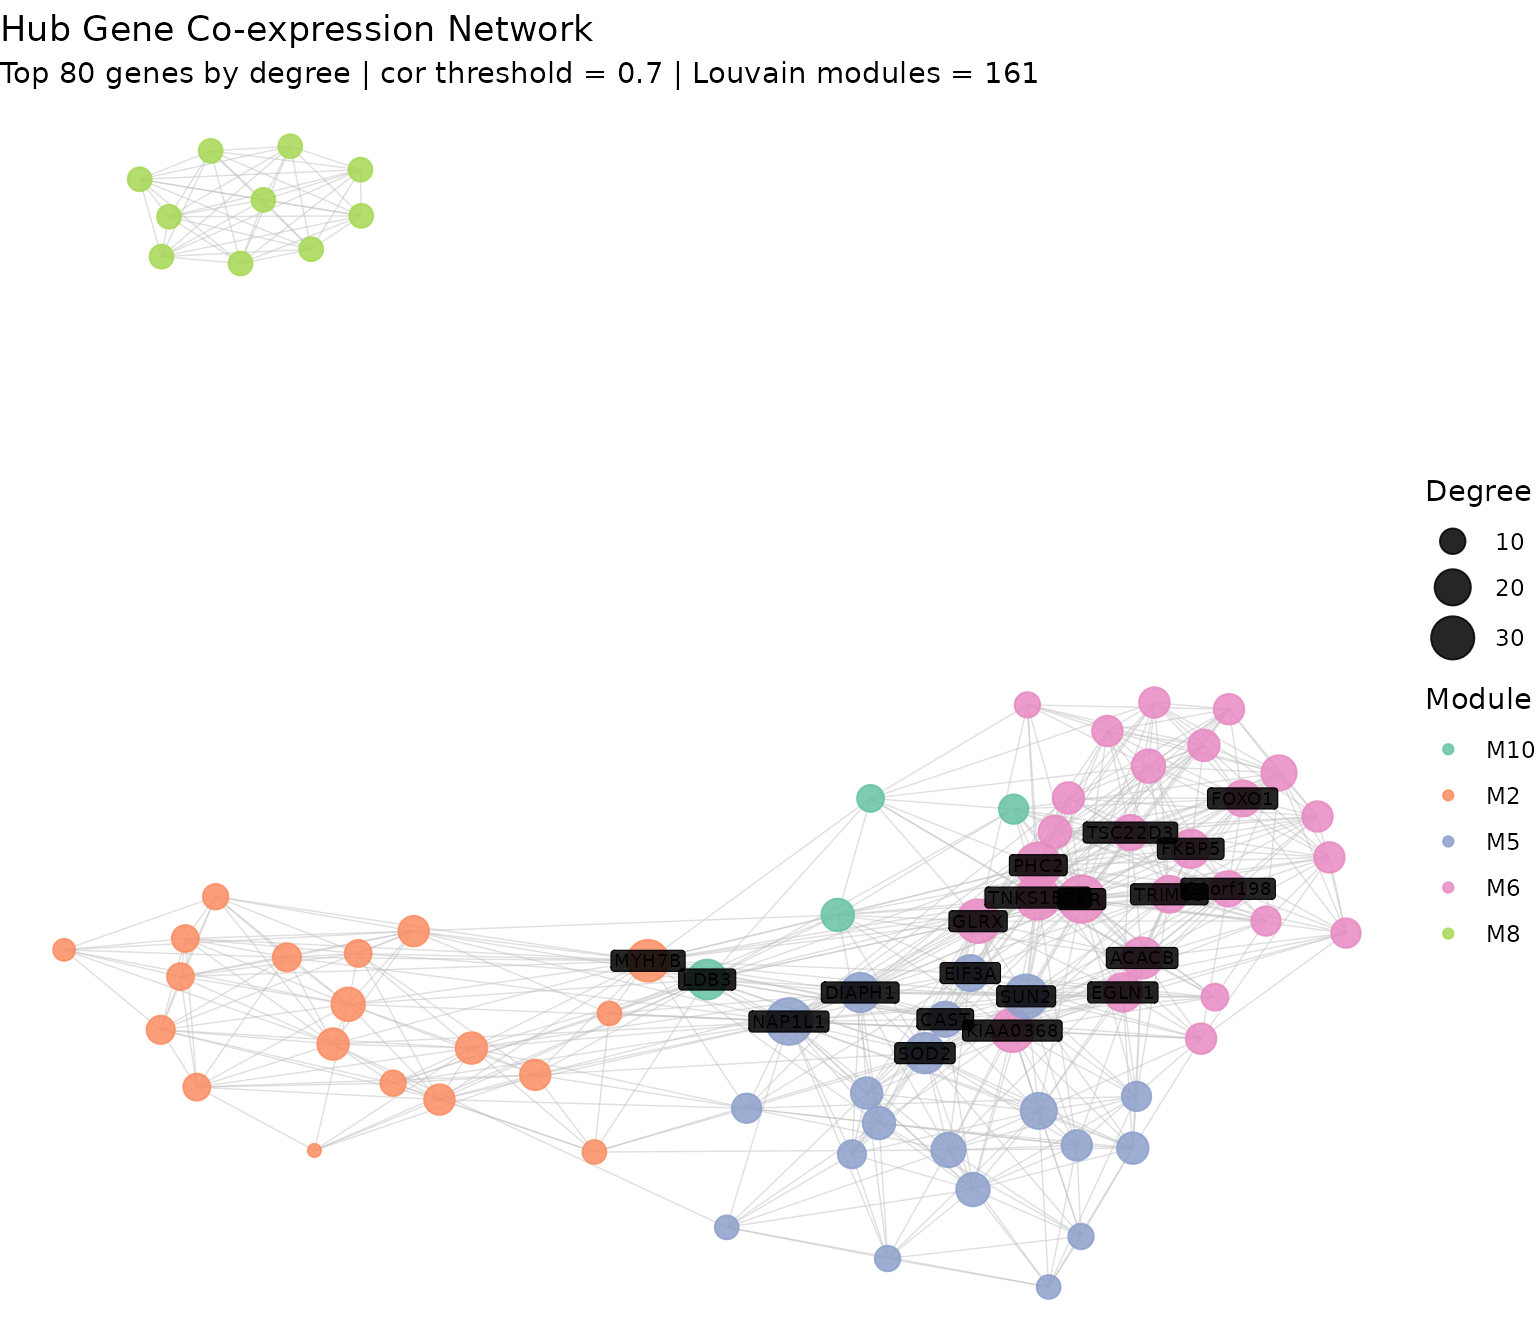
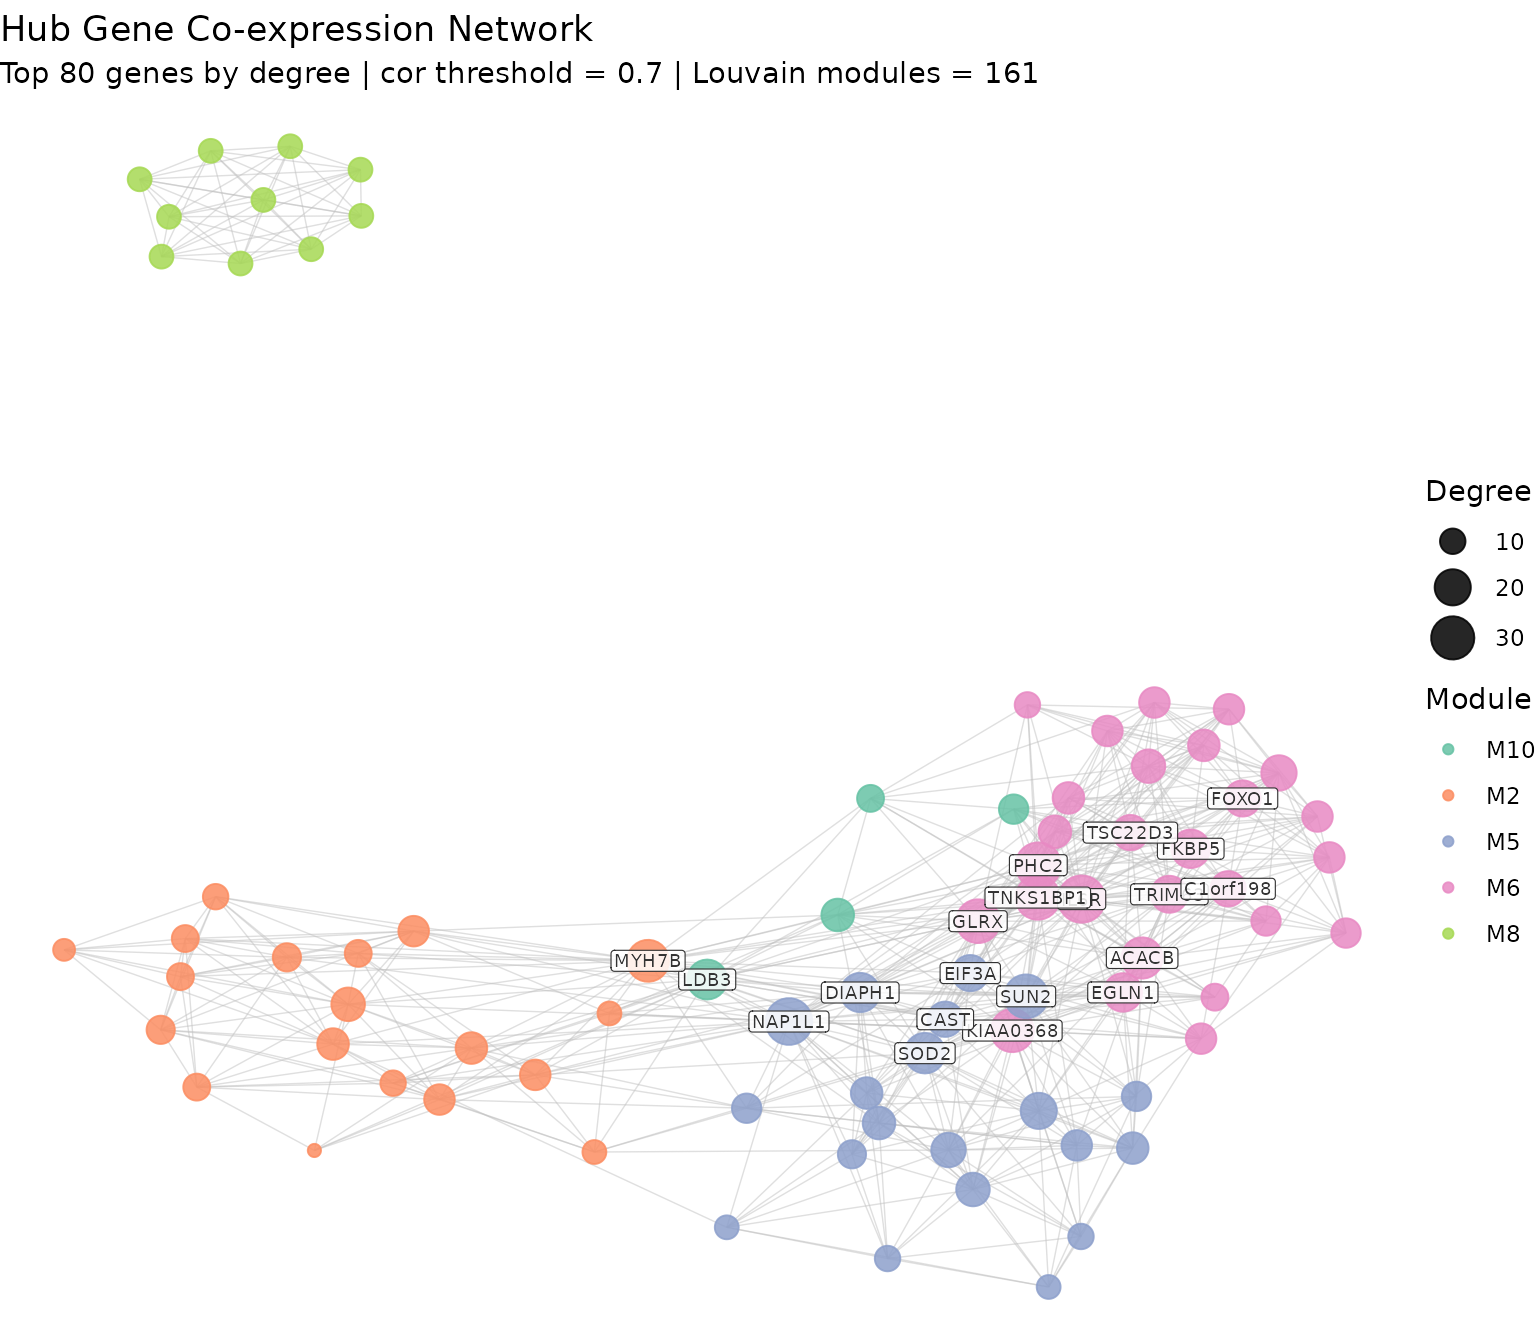
Deploying to gh-pages from @ lmuir16/ADS8192@c28b5de72da7c323fce647469440a7c2709f302e 🚀

Changed region(s): [[0.375, 0.5625, 0.8438, 0.8125]]

diff --git a/articles/getting-started.html b/articles/getting-started.html
@@ -287,6 +287,16 @@ colored by module, with the top 20 hub genes labeled by gene symbol.</p>
 <span>             cor_threshold  <span class="op">=</span> <span class="fl">0.7</span>,</span>
 <span>             community_method <span class="op">=</span> <span class="st">"louvain"</span><span class="op">)</span></span></code></pre></div>
 <p><img src="getting-started_files/figure-html/network-plot-1.png" class="r-plt" alt="" width="768"></p>
+<p>Note that the number of labeled hub genes can be controlled with
+<code>n_label</code> to reduce overlap in dense networks:</p>
+<div class="sourceCode" id="cb12"><pre class="downlit sourceCode r">
+<code class="sourceCode R"><span><span class="co"># Reduce label density for cleaner visualization</span></span>
+<span><span class="fu"><a href="../reference/plot_network.html">plot_network</a></span><span class="op">(</span><span class="va">net</span>,</span>
+<span>             modules          <span class="op">=</span> <span class="va">gene_mods</span><span class="op">$</span><span class="va">modules</span>,</span>
+<span>             n_top            <span class="op">=</span> <span class="fl">80</span>,</span>
+<span>             n_label          <span class="op">=</span> <span class="fl">10</span>,</span>
+<span>             cor_threshold    <span class="op">=</span> <span class="fl">0.7</span>,</span>
+<span>             community_method <span class="op">=</span> <span class="st">"louvain"</span><span class="op">)</span></span></code></pre></div>
 </div>
 </div>
 <div class="section level2">
@@ -295,7 +305,7 @@ colored by module, with the top 20 hub genes labeled by gene symbol.</p>
 <p>All results can be exported to TSV files for downstream analysis or
 reporting. Six files are written to a temporary directory by
 default.</p>
-<div class="sourceCode" id="cb12"><pre class="downlit sourceCode r">
+<div class="sourceCode" id="cb13"><pre class="downlit sourceCode r">
 <code class="sourceCode R"><span><span class="va">exported_files</span> <span class="op">&lt;-</span> <span class="fu"><a href="../reference/net_export.html">net_export</a></span><span class="op">(</span></span>
 <span>  <span class="va">cor_mat</span>,</span>
 <span>  <span class="va">net</span>,</span>
@@ -332,7 +342,7 @@ top hub gene</li>
 <div class="section level2">
 <h2 id="session-info">Session Info<a class="anchor" aria-label="anchor" href="#session-info"></a>
 </h2>
-<div class="sourceCode" id="cb13"><pre class="downlit sourceCode r">
+<div class="sourceCode" id="cb14"><pre class="downlit sourceCode r">
 <code class="sourceCode R"><span><span class="fu"><a href="https://rdrr.io/r/utils/sessionInfo.html" class="external-link">sessionInfo</a></span><span class="op">(</span><span class="op">)</span></span>
 <span><span class="co">#&gt; R version 4.5.3 (2026-03-11)</span></span>
 <span><span class="co">#&gt; Platform: x86_64-pc-linux-gnu</span></span>

diff --git a/articles/getting-started.md b/articles/getting-started.md
@@ -228,6 +228,19 @@ plot_network(net,
 
 ![](getting-started_files/figure-html/network-plot-1.png)
 
+Note that the number of labeled hub genes can be controlled with
+`n_label` to reduce overlap in dense networks:
+
+``` r
+# Reduce label density for cleaner visualization
+plot_network(net,
+             modules          = gene_mods$modules,
+             n_top            = 80,
+             n_label          = 10,
+             cor_threshold    = 0.7,
+             community_method = "louvain")
+```
+
 ## Exporting Results
 
 All results can be exported to TSV files for downstream analysis or
